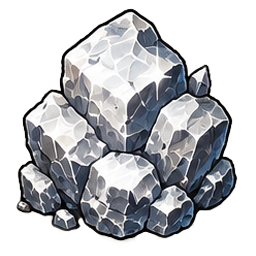
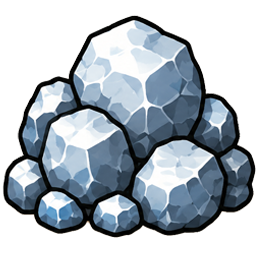
,

diff --git a/index.html b/index.html
@@ -161,8 +161,17 @@ input,select,textarea{user-select:text;-webkit-user-select:text}
    bilden i mitten, formagan och XP-mataren nedtill. Nivan ar BARA SIFFRAN, i en
    liten bricka i ovre vanstra hornet - texten "Lev" gjorde brickan bred nog att
    krocka med namnet. Namnet halls darfor fritt fran bada hornen. */
-.htc-art{position:relative;width:100px;height:100px;display:grid;place-items:center;flex:0 0 auto;
+/* [ANDRAT v5.94.1] BILDEN LAMNAR IFRAN SIG PLATS NAR TEXTEN BEHOVER TVA RADER.
+   Forut var bildrutan stenhard: nar en lang egenskap bröts till tva rader fanns
+   ingen plats att ta den ur, sa allt under trycktes NEDAT och XP-mataren foll
+   utanfor kortets underkant. Nu ar hundra pixlar ett TAK, inte ett krav -
+   rutan far krympa, och figuren i den foljer med. Mataren star darmed stilla
+   langst ned oavsett hur lang egenskapen ar. */
+.htc-art{position:relative;height:100px;width:auto;aspect-ratio:1;
+  display:grid;place-items:center;flex:0 1 auto;min-height:0;
   filter:drop-shadow(0 0 8px color-mix(in srgb, var(--hc) 50%, transparent))}
+/* Inline-mattet pa figuren ar satt i px och maste overtalas att folja rutan. */
+.htc-art .pet-sprite{width:100% !important;height:100% !important}
 .htc-badge{
   position:absolute;top:6px;left:6px;z-index:3;
   min-width:18px;padding:2px 4px;border-radius:6px;text-align:center;
@@ -4591,7 +4600,7 @@ button:active:not(:disabled), .zx-btn:active:not(:disabled),
           <span id="save-status">Not saved yet</span>
         </div>
         <span id="next-save" style="display:none">0:10</span>
-        <div class="sn-ver">GENESIS v5.94.0 — KORTEN I MITTEN</div>
+        <div class="sn-ver">GENESIS v5.94.1 — TVÅRADIG EGENSKAP</div>
       </div>
     </div>
   </aside>
@@ -5340,7 +5349,7 @@ button:active:not(:disabled), .zx-btn:active:not(:disabled),
         <div class="settings-row">
           <div>
             <div>Version</div>
-            <div class="desc">GENESIS v5.94.0 — KORTEN I MITTEN</div>
+            <div class="desc">GENESIS v5.94.1 — TVÅRADIG EGENSKAP</div>
           </div>
         </div>
       </div>
